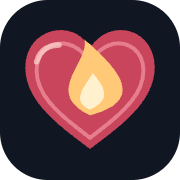
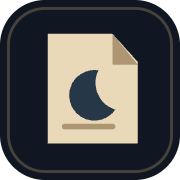
Refine shared stationery, sound controls and public share links

diff --git a/web/src/components/ItemPrivacy.tsx b/web/src/components/ItemPrivacy.tsx
@@ -1,3 +1,5 @@
+import { sharedEntryUrl } from '../domain/shareUrl';
+import { ShareLetterIcon } from './ShareLetterIcon';
 import { RichContent } from './RichContent';
 import type { World } from '../domain/storage';
 import { useEffect, useRef, useState } from 'react';
@@ -9,7 +11,7 @@ export function SteelBinding(){return <span className="steel-binding" aria-hidde
 export function ItemControls({scope,onChanged,shareOnly=false}:{scope:Scope|{kind:'space'};onChanged?:()=>void;shareOnly?:boolean}){
   const locked=useWall(s=>scope.kind==='space'?false:scope.kind==='room'?!!s.rooms.find(r=>r.id===scope.id)?.locked:!!s.stickies.find(n=>n.id===scope.id)?.locked);
   const [mode,setMode]=useState<'share'|'lock'|null>(null);
-  return <><span className="item-controls">{!locked&&<button type="button" onClick={()=>setMode('share')}>Share {scope.kind==='space'?'space':scope.kind}</button>}{!shareOnly&&scope.kind!=='space'&&<button className="heart-lock-button" type="button" onClick={()=>setMode('lock')}><HeartLock/>{locked?'Unlock':'Lock'} {scope.kind}</button>}</span>{mode&&<PrivacyDialog scope={scope} mode={mode} locked={locked} onClose={()=>setMode(null)} onChanged={onChanged}/>}</>;
+  return <><span className="item-controls">{!locked&&<button type="button" onClick={()=>setMode('share')}><ShareLetterIcon/>Share {scope.kind==='space'?'space':scope.kind}</button>}{!shareOnly&&scope.kind!=='space'&&<button className="heart-lock-button" type="button" onClick={()=>setMode('lock')}><HeartLock/>{locked?'Unlock':'Lock'} {scope.kind}</button>}</span>{mode&&<PrivacyDialog scope={scope} mode={mode} locked={locked} onClose={()=>setMode(null)} onChanged={onChanged}/>}</>;
 }
 function PrivacyDialog({scope,mode,locked,onClose,onChanged}:{scope:Scope|{kind:'space'};mode:'share'|'lock';locked:boolean;onClose:()=>void;onChanged?:()=>void}){
   const ref=useRef<HTMLDialogElement>(null);const active=useRef(true);
@@ -31,13 +33,13 @@ function PrivacyDialog({scope,mode,locked,onClose,onChanged}:{scope:Scope|{kind:
         if(!world.stickies.length)throw new Error('There are no unlocked notes to share. Unlock a note first.');
         const envelope=await protect(world,pass,mediaBytes(world));
         const fragment=envelope.data.length<=12000?encodeURIComponent(JSON.stringify(envelope)):null;
-        const url=fragment&&fragment.length<=12000?`${location.origin}${import.meta.env.BASE_URL}shared/#${fragment}`:'';
+        const url=fragment&&fragment.length<=12000?`${sharedEntryUrl()}#${fragment}`:'';
         if(active.current){setResult({envelope,url,excluded});setPass('');setRepeat('');}
       }else if(scope.kind!=='space'){if(locked&&!removeLock){const world=await previewLockedItem(scope,pass);if(active.current){setPreview(world);setPass('');}}else{await changeItemLock(scope,pass,onChanged);if(active.current)onClose();}}
     }catch(e){if(active.current)setError(e instanceof Error?e.message:'Could not complete this action.');}finally{if(active.current)setBusy(false);}
   }}>
     <h1>{mode==='share'?'Share a little of your world':preview?'A private look':locked?'Unlock this space':'Keep this close'}</h1>
-    {mode==='share'?<><p>A read-only snapshot of this {scope.kind}. Locked rooms and notes are excluded. Later edits and deletions do not change copies you share.</p>{selection&&<p>{selection.world.rooms.length} room(s) · {selection.world.stickies.length} note(s) · {selection.excluded} locked item(s) excluded</p>}<p>Choose a new share passphrase, different from your archive passphrase, and send it separately. Anyone with the file or link and its passphrase can read and keep a copy. Links cannot be revoked. Large selections use an encrypted file.</p>{location.hostname==='127.0.0.1'||location.hostname==='localhost'?<p className="privacy-copy">This preview address works only on your device. Other people need a reachable hosted copy of this app to open a link or import the shared file.</p>:null}</>:<p>{preview?'This view is temporary. Close it to hide the content and keep its lock.':locked?'Open a read-only view. Closing it keeps the lock in place. To edit, explicitly remove the lock below.':'Choose a separate passphrase to encrypt this item inside your archive. There is no reset for this lock; save its passphrase in your password manager.'}</p>}
+    {mode==='share'?<><p>A read-only snapshot of this {scope.kind}. Locked rooms and notes are excluded. Later edits and deletions do not change copies you share.</p>{selection&&<p>{selection.world.rooms.length} room(s) · {selection.world.stickies.length} note(s) · {selection.excluded} locked item(s) excluded</p>}<p>Choose a new share passphrase, different from your archive passphrase, and send it separately. Anyone with the file or link and its passphrase can read and keep a copy. Links cannot be revoked. Large selections use an encrypted file.</p>{location.hostname==='127.0.0.1'||location.hostname==='localhost'?<p className="privacy-copy">Links made here open the public Black Wall site, so you can send them to someone else. Send the secret phrase separately.</p>:null}</>:<p>{preview?'This view is temporary. Close it to hide the content and keep its lock.':locked?'Open a read-only view. Closing it keeps the lock in place. To edit, explicitly remove the lock below.':'Choose a separate passphrase to encrypt this item inside your archive. There is no reset for this lock; save its passphrase in your password manager.'}</p>}
     {!result&&!preview&&<>{!locked&&<p className="privacy-copy">Use 12–200 characters. Spaces are allowed.</p>}<label>{mode==='share'?'Share passphrase':locked?'Item passphrase':'New item passphrase'}<input autoFocus type="password" autoComplete={locked?'current-password':'new-password'} minLength={locked?1:12} maxLength={200} required disabled={busy} value={pass} onChange={e=>setPass(e.target.value)}/></label>{(mode==='share'||!locked)&&<label>Repeat passphrase<input type="password" autoComplete="new-password" required maxLength={200} value={repeat} onChange={e=>setRepeat(e.target.value)} disabled={busy}/></label>}<>{locked&&mode==='lock'&&<label className="remove-lock-choice"><input type="checkbox" checked={removeLock} disabled={busy} onChange={e=>setRemoveLock(e.target.checked)}/>Remove this lock so I can edit</label>}</><button className="primary" disabled={busy}>{busy?'Securing…':mode==='share'?'Prepare private share':locked?(removeLock?'Remove lock':'Unlock item'):'Lock item'}</button></>}
     {result&&<div className="share-result"><p role="status">Your protected snapshot is ready. {result.excluded} locked item(s) excluded.</p>{result.url?<><label>Protected share link<input readOnly value={result.url} onFocus={e=>e.target.select()}/></label><button type="button" onClick={()=>{if(!navigator.clipboard){setError('Select and copy the link above.');return;}void navigator.clipboard.writeText(result.url).then(()=>setCopied(true)).catch(()=>setError('Select and copy the link above.'));}}>{copied?'Copied':'Copy link'}</button></>:<p>This selection includes too much content for a reliable URL. Download the encrypted file and send it instead; nothing was left out.</p>}<button type="button" onClick={()=>downloadPrivate(result.envelope)}>Download shared file</button></div>}
     {preview&&<section className="locked-preview" aria-label="Private view" tabIndex={-1}><p role="status">Read-only · Your saved item is still locked.</p>{preview.stickies.length===0&&<p>This room has no notes.</p>}{preview.stickies.map(note=><article key={note.id}>{note.locked?<p><HeartLock/> This note has its own lock. Remove the room lock to open it separately.</p>:<><RichContent text={note.body}/>{(note.attachments??[]).map(a=><figure key={a.id}>{a.type.startsWith('image/')?<img src={a.data} alt={a.name}/>:a.type.startsWith('audio/')?<audio controls src={a.data}/>:<video controls src={a.data}/>}<figcaption>{a.name}</figcaption></figure>)}</>}</article>)}</section>}

diff --git a/web/src/components/SharedLetter.tsx b/web/src/components/SharedLetter.tsx
@@ -1,8 +1,9 @@
-import { useRef, useState, type CSSProperties } from 'react';
+import { useEffect, useRef, useState, type CSSProperties } from 'react';
 import type { Sticky } from '../domain/types';
 import { RichContent } from './RichContent';
 import { Wick } from './Wick';
 import { LetterSeal } from './LetterSeal';
+import { reducedMotion } from '../domain/motion';
 import { paperTone } from '../domain/presentation';
 
 export function SharedLetter({ note, main, seen, index }: { note: Sticky; main: boolean; seen: Set<string>; index: number }) {
@@ -10,12 +11,31 @@ export function SharedLetter({ note, main, seen, index }: { note: Sticky; main: 
   const [opened, setOpened] = useState(!main || seen.has(identity));
   const [reveal, setReveal] = useState(false);
   const letter = useRef<HTMLElement>(null);
+  const [phase, setPhase] = useState<'rest' | 'opening' | 'folding'>('rest');
+  const timer = useRef<ReturnType<typeof setTimeout> | undefined>(undefined);
+  const focusNext = useRef(false);
+  useEffect(() => () => clearTimeout(timer.current), []);
+  useEffect(() => {
+    if (!focusNext.current) return;
+    focusNext.current = false;
+    if (opened) letter.current?.focus({ preventScroll: true });
+    else letter.current?.querySelector('button')?.focus({ preventScroll: true });
+  }, [opened]);
+  function turnLetter(next: boolean) {
+    if (phase !== 'rest') return;
+    const finish = () => {
+      if (next) { setReveal(!seen.has(identity)); seen.add(identity); }
+      else setReveal(false);
+      focusNext.current = true;
+      setOpened(next); setPhase('rest');
+    };
+    if (reducedMotion()) { finish(); return; }
+    setPhase(next ? 'opening' : 'folding');
+    timer.current = setTimeout(finish, next ? 440 : 180);
+  }
   const media = note.attachments ?? [];
-  return <article ref={letter} tabIndex={-1} className={`shared-paper ${main ? 'shared-paper--main' : 'shared-paper--pinned'} ${opened ? 'is-unsealed' : 'is-sealed'} ${reveal ? 'is-revealing' : ''}`} style={{ '--paper': main ? '#f6e9cf' : paperTone(note.color), '--paper-tilt': `${main ? -1 : index % 2 ? 2 : -2}deg`, '--pin-drop': `${index % 3 * 28}px` } as CSSProperties}>
-    {!opened ? <button className="shared-envelope" onClick={() => {
-      setReveal(!seen.has(identity)); seen.add(identity); setOpened(true);
-      requestAnimationFrame(() => letter.current?.focus({ preventScroll: true }));
-    }}><span className="shared-envelope-greeting">hey… I think this one is for you.</span><span className="shared-envelope-shape"><span className="shared-envelope-flap"/><LetterSeal seal/><span className="shared-envelope-address">a message for you</span></span><Wick mood="happy" letter/><span className="shared-envelope-prompt">Open your letter <span aria-hidden="true">↗</span></span></button> : <>
+  return <article ref={letter} tabIndex={-1} className={`shared-paper ${main ? 'shared-paper--main' : 'shared-paper--pinned'} ${opened ? 'is-unsealed' : 'is-sealed'} ${reveal ? 'is-revealing' : ''} letter-phase--${phase}`} style={{ '--paper': main ? '#f6e9cf' : paperTone(note.color), '--paper-tilt': `${main ? -1 : index % 2 ? 2 : -2}deg`, '--pin-drop': `${index % 3 * 28}px` } as CSSProperties}>
+    {!opened ? <button className="shared-envelope" aria-disabled={phase !== 'rest'} onClick={() => turnLetter(true)}><span className="shared-envelope-greeting">hey… I think this one is for you.</span><span className="shared-envelope-shape"><span className="shared-envelope-insert" aria-hidden="true">a little something,<br/>just for you.</span><span className="shared-envelope-flap"/><LetterSeal seal/><span className="shared-envelope-address">a message for you</span></span><Wick mood="happy" letter/><span className="shared-envelope-prompt">Open your letter <span aria-hidden="true">↗</span></span></button> : <>
       <span className="note-tape" aria-hidden="true"/>
       {main && <><p className="shared-letter-prelude">someone, somewhere, wrote:</p><span className="shared-wax"><LetterSeal seal/></span><div className="shared-letter-wick"><Wick mood="happy"/></div></>}
       {note.body ? <RichContent text={note.body} reveal={reveal}/> : <p className="shared-empty-note">A quiet little note.</p>}
@@ -24,7 +44,7 @@ export function SharedLetter({ note, main, seen, index }: { note: Sticky; main: 
         <figcaption>{a.name}</figcaption>
       </figure>)}
       {main && <p className="shared-letter-signature">— thinking of you ✦</p>}
-      <footer className="shared-paper-footer"><time dateTime={new Date(note.createdAt).toISOString()}>{new Date(note.createdAt).toLocaleDateString(undefined, { month: 'short', day: 'numeric' })}</time>{main && <button onClick={() => { setOpened(false); setReveal(false); }}>Fold the letter</button>}</footer>
+      <footer className="shared-paper-footer"><time dateTime={new Date(note.createdAt).toISOString()}>{new Date(note.createdAt).toLocaleDateString(undefined, { month: 'short', day: 'numeric' })}</time>{main && <button aria-disabled={phase !== 'rest'} onClick={() => turnLetter(false)}>Fold the letter</button>}</footer>
     </>}
   </article>;
 }

diff --git a/web/src/styles/shared.css b/web/src/styles/shared.css
@@ -88,3 +88,43 @@
 @media(max-width:760px){.shared-paper--main{transform:none}.shared-paper--pinned{flex-basis:calc(100% - 16px);transform:rotate(.8deg)}.shared-letter-wick{right:0}.shared-notes{overflow:clip;padding-bottom:44px}.shared-room-heading h1{font-size:42px}}
 .shared-nav>a{min-height:44px}
 @media(max-width:760px){.shared-paper--main{--paper-tilt:0deg!important}.shared-paper--pinned{--paper-tilt:0deg!important;transform:none}}
+
+/* A letter carried into the room: reveal the material before the words. */
+.invitation-backing{position:absolute;inset:14px -9px -13px;background:#bda888;border:1px solid #ddc8a3;border-radius:5px;transform:rotate(2deg);z-index:-1;box-shadow:0 20px 45px #0005}
+.invitation-backing>span{position:absolute;bottom:5px;right:15px;color:#4a3526;font:16px var(--font-note)}
+.invitation-paper{border-radius:9px 9px 30px 9px;background:linear-gradient(120deg,#ffffff0b,transparent 45%),#141c28f2;padding-bottom:27px}
+.invitation-overline{letter-spacing:.13em;font-size:11px}
+.invitation-keyhole{position:absolute;right:20px;bottom:20px;width:8px;height:12px;background:#9b7853;clip-path:polygon(50% 0,90% 15%,100% 45%,65% 65%,80% 100%,20% 100%,35% 65%,0 45%,10% 15%)}
+.invitation-open{position:relative;overflow:hidden;background:#e8c798;border-radius:5px}
+.invitation-open::after{content:'';position:absolute;inset:0;pointer-events:none;background:linear-gradient(110deg,transparent 25%,#fff5 50%,transparent 75%);transform:translateX(-120%)}
+.is-opening .invitation-open::after{animation:invitation-glint 600ms ease-out both}
+.is-opening .invitation-backing{animation:invitation-backing-open 650ms var(--ease-out) both}
+.shared-envelope-shape{perspective:900px;isolation:isolate;background:#bf9690;border:0;box-shadow:5px 14px 35px #0005}
+.shared-envelope-shape::before{z-index:2;pointer-events:none;clip-path:polygon(0 0,50% 61%,100% 0,100% 100%,0 100%);background:linear-gradient(155deg,#efd0be,#d5aca4)}
+.shared-envelope-flap{z-index:4;transform-origin:50% 0;backface-visibility:hidden;transition:transform 300ms cubic-bezier(.22,1,.36,1)}
+.shared-envelope-insert{position:absolute;inset:15px 16px 10px;background:#f6e9cf;color:#6e5640;border-radius:3px;padding:27px 18px;font:26px/1.15 var(--font-note);text-align:left;z-index:1;transition:transform 340ms cubic-bezier(.22,1,.36,1),opacity 160ms}
+.shared-envelope-shape>.letter-seal{z-index:5;transition:transform 180ms,opacity 150ms}
+.shared-envelope-address{z-index:3;color:#624540;font-size:25px}
+.letter-phase--opening .shared-envelope-flap{transform:rotateX(175deg)}
+.letter-phase--opening .shared-envelope-shape>.letter-seal{transform:translateY(10px) rotate(15deg);opacity:0}
+.letter-phase--opening .shared-envelope-insert{transform:translateY(-54px);transition-delay:100ms}
+.letter-phase--opening .shared-envelope-shape{transform:rotate(0deg) translateY(5px)}
+.letter-phase--opening .shared-envelope>.wick{transform:rotate(3deg) translateX(8px);transition:transform 300ms}
+.shared-paper.letter-phase--folding{animation:letter-fold-away 180ms ease-in both;transform-origin:50% 90%}
+.shared-paper.is-unsealed:focus-visible{outline:2px solid #c39d6c;outline-offset:7px}
+.shared-wax{opacity:.8;transform:rotate(8deg)}
+.shared-wax .letter-seal{width:30px;height:30px}
+.shared-room-heading>p{letter-spacing:.015em}.shared-letter-prelude{font-size:21px}
+.secret-room button:active,.shared-room-actions>a:active{scale:.98;transition:scale 100ms}
+.secret-room button{touch-action:manipulation}
+@media(hover:hover) and (pointer:fine){
+ .shared-envelope:where(:hover,:focus-visible) .shared-envelope-insert{transform:translateY(-9px)}
+ .shared-envelope:where(:hover,:focus-visible) .shared-envelope-flap{transform:rotateX(18deg)}
+ .letter-phase--opening .shared-envelope:hover .shared-envelope-flap{transform:rotateX(175deg)}
+ .letter-phase--opening .shared-envelope:hover .shared-envelope-insert{transform:translateY(-54px)}
+}
+@keyframes invitation-glint{to{transform:translateX(120%)}}
+@keyframes invitation-backing-open{to{transform:translateY(12px) rotate(-2deg);opacity:0}}
+@keyframes letter-fold-away{to{transform:translateY(12px) rotateX(12deg) scale(.97);opacity:0}}
+@media(max-width:760px){.invitation-backing{inset:12px -4px -11px;transform:rotate(1deg)}.shared-envelope-insert{font-size:23px;padding:20px 15px}}
+@media(prefers-reduced-motion:reduce){.shared-envelope-insert,.shared-envelope-flap{transform:none!important}.secret-room button:active{scale:1}}

diff --git a/web/src/pages/Room.tsx b/web/src/pages/Room.tsx
@@ -48,7 +48,7 @@ export function Room() {
   return <main className={`diary-room ${light?'light-on':'light-off'}${igniting?' is-igniting':''}`}>
     <header className="diary-bar glass"><Link to="/">← Lobby</Link>
       {renaming?<input aria-label="Room name" defaultValue={room.name} maxLength={60} autoFocus onBlur={e=>{const name=e.target.value.trim();if(name)useWall.getState().updateRoom(room.id,{name});setRenaming(false);}} onKeyDown={e=>{if(e.key==='Enter')e.currentTarget.blur();if(e.key==='Escape')setRenaming(false);}}/>:<h1><button onClick={()=>setRenaming(true)} title="Rename room">{room.name}</button></h1>}
-      <div className="diary-actions"><button className={`diary-switch ${light?'is-on':''}`} aria-pressed={light||igniting} aria-label={light||igniting?'Turn room light off':'Turn room light on'} onClick={toggleLight}><span aria-hidden="true"/>{light?'Light on':'Light off'}</button><button data-sound-toggle title={sound.enabled ? "Turn chimes off" : "Turn chimes on"} aria-pressed={sound.enabled} onClick={sound.toggle}>Chimes {sound.enabled?'on':'off'}</button><button className="room-primary-action" onClick={add}>Pin a thought</button><button className="letters-toggle" aria-pressed={fallingLetters} title="Choose whether letters fall when you close or dim notes" onClick={toggleLetters}>Falling letters {fallingLetters?'on':'off'}</button><ItemControls scope={{kind:'room',id:room.id}}/></div>
+      <div className="diary-actions"><button className={`diary-switch ${light?'is-on':''}`} aria-pressed={light||igniting} aria-label={light||igniting?'Turn room light off':'Turn room light on'} onClick={toggleLight}><span aria-hidden="true"/>{light?'Light on':'Light off'}</button><button data-sound-toggle title={sound.enabled ? "Turn sound off" : "Turn sound on"} aria-pressed={sound.enabled} onClick={sound.toggle}>Sound {sound.enabled?'on':'off'}</button><button className="room-primary-action" onClick={add}>Pin a thought</button><button className="letters-toggle" aria-pressed={fallingLetters} title="Choose whether letters fall when you close or dim notes" onClick={toggleLetters}>Falling letters {fallingLetters?'on':'off'}</button><ItemControls scope={{kind:'room',id:room.id}}/></div>
     </header>
     <p className="room-guidance">{light?'Open a note to write. Move it by its tape.': 'Bring the match close to read. You can also tap or focus any note.'}</p>
     {message&&<p role="status">{message}</p>}

diff --git a/web/src/pages/Shared.tsx b/web/src/pages/Shared.tsx
@@ -97,6 +97,7 @@ export function Shared() {
     <nav className="shared-nav" aria-label="Shared invitation"><a href={import.meta.env.BASE_URL}><LetterSeal/>The Black Wall</a><div><HelpGuide/><button onClick={() => close(true)}>Hide screen</button></div></nav>
     {!world ? <section className="shared-invitation" aria-label="Your secret invitation">
       <div className="wick-greeting"><p>psst… someone thought of you ♡</p><Wick key={attempt} mood={opening ? 'happy' : attempt ? 'shy' : 'waiting'} letter/></div>
+      <div className="invitation-backing" aria-hidden="true"><span>delivered by moonlight</span></div>
       <form className={`invitation-paper ${error && attempt ? 'has-mistake' : ''}`} onSubmit={open} aria-busy={busy}>
         <span className="invitation-overline">a little corner, just for you</span>
         <h1>A note was<br/>left for you.</h1>
@@ -104,10 +105,10 @@ export function Shared() {
         <div className="invitation-code" key={attempt}>
           <label htmlFor="shared-phrase">Do you know the secret phrase?</label>
           <input id="shared-phrase" ref={input} aria-label="Share passphrase" type="password" autoComplete="off" required maxLength={200} value={pass} disabled={busy} aria-describedby={error ? 'shared-error share-pass-hint' : 'share-pass-hint'} aria-invalid={error ? true : undefined} onChange={e => setPass(e.target.value)} placeholder={attempt ? 'not quite… try again' : 'secret phrase'}/>
-          <LetterSeal/>
+          <span className="invitation-keyhole" aria-hidden="true"/>
         </div>
         <p id="share-pass-hint" className="shared-hint">The sender keeps the phrase separate from the letter.</p>
-        <button className="invitation-open" disabled={!envelope || busy}><LetterSeal/>{busy ? 'Opening your little world…' : 'Open'}<span aria-hidden="true">→</span></button>
+        <button className="invitation-open" disabled={!envelope || busy}>{busy ? 'Opening your little world…' : 'Open'}<span aria-hidden="true">→</span></button>
         {error && <p id="shared-error" className="shared-error" role="alert">{error}</p>}
         <details className="shared-file" open={!envelope || undefined}><summary>Have a shared file instead?</summary><label>Open shared file<input type="file" accept=".json,application/json" disabled={busy} onChange={async e => {
           const file = e.target.files?.[0]; if (!file) return;

diff --git a/web/src/pages/Lobby.tsx b/web/src/pages/Lobby.tsx
@@ -1,4 +1,3 @@
-import { LetterSeal } from '../components/LetterSeal';
 import { ItemControls } from '../components/ItemPrivacy';
 import { FairyLights } from '../components/FairyLights';
 import { useEffect, useState } from 'react';
@@ -50,10 +49,10 @@ export function Lobby() {
       <DarkBackdrop />
       <div className="lobby__moon" aria-hidden="true" />
       <header className="lobby__header">
-        <p className="lobby__eyebrow"><LetterSeal/> THE NIGHT ARCHIVE</p>
+        <p className="lobby__eyebrow">THE NIGHT ARCHIVE</p>
         <h1 className="lobby__title" aria-label="Rooms for thoughts that stay."><span className="lobby__title-word">Rooms</span>{' '}<span className="lobby__title-word">for</span>{' '}<span className="lobby__title-word">thoughts</span>{' '}<span className="lobby__title-word">that</span>{' '}<span className="lobby__title-word lobby__title-word--accent">stay.</span></h1>
         <p className="lobby__subtitle">A quiet place to leave something behind</p>
-        <div className="lobby__preferences"><span>Saved in this browser · Never shared automatically</span><button type="button" data-sound-toggle title={sound.enabled ? "Turn chimes off" : "Turn chimes on"} aria-pressed={sound.enabled} onClick={sound.toggle}>Chimes {sound.enabled ? 'on' : 'off'}</button><ItemControls scope={{kind:'space'}} shareOnly/></div>
+        <div className="lobby__preferences"><span>Saved in this browser · Never shared automatically</span><button type="button" data-sound-toggle title={sound.enabled ? "Turn sound off" : "Turn sound on"} aria-pressed={sound.enabled} onClick={sound.toggle}>Sound {sound.enabled ? 'on' : 'off'}</button><ItemControls scope={{kind:'space'}} shareOnly/></div>
         {rooms.length > 0 && (
           <label className="lobby__search">
             <span className="lobby__search-icon" aria-hidden="true">⌕</span>

diff --git a/web/src/components/LetterSeal.tsx b/web/src/components/LetterSeal.tsx
@@ -1,4 +1,4 @@
-/** A little flame kept inside a rose wax heart: the archive's own seal. */
+/** A moon kept in a folded note: the archive mark, without a badge on paper. */
 export function LetterSeal({ seal = false }: { seal?: boolean }) {
-  return <svg className="letter-seal" viewBox="0 0 64 64" fill="none" aria-hidden="true">{!seal && <rect width="64" height="64" rx="17" fill="#101722"/>}<path d="M32 53C23 46 9 37 9 24c0-14 17-18 23-7 7-11 23-7 23 7 0 13-14 22-23 29Z" fill="#c9455c"/><path d="M32 49C23 42 13 35 13 25c0-10 12-14 19-3 7-11 19-7 19 3 0 10-10 17-19 24Z" stroke="#ffadb5" strokeOpacity=".55" strokeWidth="1.4"/><path d="M32 41c-17-8 0-19-2-27 14 12 21 22 2 27Z" fill="#ffc978"/><path d="M32 39c-7-3-2-8 1-13 6 7 5 10-1 13Z" fill="#fff1ce"/><path d="M21 16c-4 0-7 2-8 6" stroke="#ffd7cf" strokeOpacity=".7" strokeWidth="2" strokeLinecap="round"/></svg>;
+  return <svg className="letter-seal" viewBox="0 0 64 64" fill="none" aria-hidden="true">{!seal && <><rect width="64" height="64" rx="16" fill="#101722"/><rect x="3" y="3" width="58" height="58" rx="13" stroke="#c3a875" strokeOpacity=".3"/></>}<path d="M17 12h23l9 10v29H17z" fill="#e9d9b9"/><path d="M40 12v11h9" fill="#ae9673"/><path d="M35 25a9 9 0 1 0 6 14 10 10 0 0 1-6-14Z" fill="#263748"/><path d="M23 45h17" stroke="#ae9673" strokeWidth="2" strokeLinecap="round"/></svg>;
 }

diff --git a/web/src/index.css b/web/src/index.css
@@ -2121,3 +2121,10 @@ button {
 
 /* The shared wax seal belongs to the gallery too. */
 .lobby__eyebrow .letter-seal{width:26px;height:26px;vertical-align:middle;margin-right:9px}
+
+/* Quiet archive lettering; share is a letter, not the app badge. */
+.lobby__eyebrow{letter-spacing:.2em}
+.share-letter-icon{flex:none;overflow:visible;color:currentColor}
+.share-letter-icon__paper{transition:transform 180ms ease-out}
+@media(hover:hover) and (pointer:fine){.item-controls button:hover .share-letter-icon__paper{transform:translateY(-2px)}}
+@media(prefers-reduced-motion:reduce){.share-letter-icon__paper{transition:none!important;transform:none!important}}

diff --git a/web/src/domain/shareUrl.ts b/web/src/domain/shareUrl.ts
@@ -1,0 +1,7 @@
+/** Local previews share through the public archive; hosted copies use their own base. */
+export const PUBLIC_ARCHIVE_URL = 'https://krithi-1304.github.io/STICKY_WALL_WORLD/';
+export function sharedEntryUrl(origin = location.origin, base = import.meta.env.BASE_URL) {
+  const host = new URL(origin).hostname;
+  const local = host === 'localhost' || host.endsWith('.localhost') || host === '127.0.0.1' || host === '[::1]' || host === '0.0.0.0';
+  return new URL('shared/', local ? PUBLIC_ARCHIVE_URL : new URL(base, origin)).href;
+}

diff --git a/web/src/components/ShareLetterIcon.tsx b/web/src/components/ShareLetterIcon.tsx
@@ -1,0 +1,4 @@
+/** A letter leaving its envelope; distinct from the archive identity. */
+export function ShareLetterIcon() {
+  return <svg className="share-letter-icon" width="22" height="22" viewBox="0 0 24 24" fill="none" stroke="currentColor" strokeWidth="1.4" strokeLinecap="round" strokeLinejoin="round" aria-hidden="true"><path d="M3 9v11h18V9M3 9l9 7 9-7M3 20l6-6m12 6-6-6"/><path className="share-letter-icon__paper" d="M7 11V3h10v8M10 6h4"/></svg>;
+}

diff --git a/PROGRESS.md b/PROGRESS.md
@@ -31,3 +31,7 @@ Limits:
 Rechecked the existing implementation rather than replacing it. Added bare stationery seals and regenerated PNG icons. Current build:pages, lint, shared-space, room-motion, media-sharing-locks, help-guide and large-media checks pass. Shared QA covers 3 OFF/ON cycles in both experiences, hidden-tab restart, incorrect/correct phrase, Close, reply composer, refresh, 360px/tablet/desktop and reduced motion with no console errors. Inspected desktop entry/open room and mobile entry/open room screenshots. Large-video test fixture now draws multiple frames so MediaRecorder reliably captures a playable stream. An initial shared test was interrupted by live source edits; the stable rerun passed. Production-path result follows.
 
 Production-path browser check: PASS against the local Pages build at `/STICKY_WALL_WORLD/`: help download, room creation, encrypted save/reload, wood asset, protected share URL and recipient unlock. Initial preview omitted the required base option; a later browser run stalled, and a diagnostic rerun completed cleanly. No deployment performed.
+
+## October 3 feedback refinements
+Changed Chimes labels to Sound; removed the lobby heart mark; replaced favicon/app icons with a moonlit folded note; Share uses an outline envelope. Added invitation paper backing, button light sweep, real flap/insert opening and paired fold departure. Preserved reduced motion and keyboard focus. Desktop entry/sealed and mobile opened screenshots reviewed. Shared-space, sound-state, room-controls, build:pages and lint pass (room controls minimum measured contrast 7.41:1).
+Fixed locally generated share links to use the public site. public-share.cjs generated a link through the actual Share room form and decrypted it on the live hosted app, confirming compatibility, fragment clearing and no browser errors. Updated local privacy/deployment regressions to inspect public URLs while exercising local recipient UI. Latest visual refinements remain local until publication; public sharing itself works now.

diff --git a/DECISIONS.md b/DECISIONS.md
@@ -12,3 +12,6 @@
 10. **Prior work stays intact.** Initial ItemPrivacy changes, the room-motion QA browser-selection change and unused letter-courier.png are not part of these commits. The earlier in-progress shared redesign and toggle correction are incorporated within their requested scope.
 
 11. **Physical seal variant (October 3).** Keep the dark tile only in app identity/navigation. On envelopes and paper, use the bare wax heart. Combine SHARED-01/02 because the entry and opened room share components and state; keep icon and lifecycle commits separate.
+
+12. **Refined identity and motion.** User rejected the heart badge and adjacent lobby branding. Replace it with a moonlit folded note, remove the lobby icon, and use a separate outline envelope for Share. Master audio wording is Sound in lobby and rooms. Envelope opening now visibly lifts the flap/insert before real message reveal; folding is a faster reverse departure. Timers cancel on unmount, repeat taps are guarded and focus follows the material.
+13. **Share beyond localhost.** Localhost/loopback preview shares target https://krithi-1304.github.io/STICKY_WALL_WORLD/shared/. Hosted installations retain their own origin/base. Only encrypted content enters the fragment. Verified live public decryption with a synthetic UI-created share; no deployment is required to make new links usable. Existing localhost links must be regenerated.
